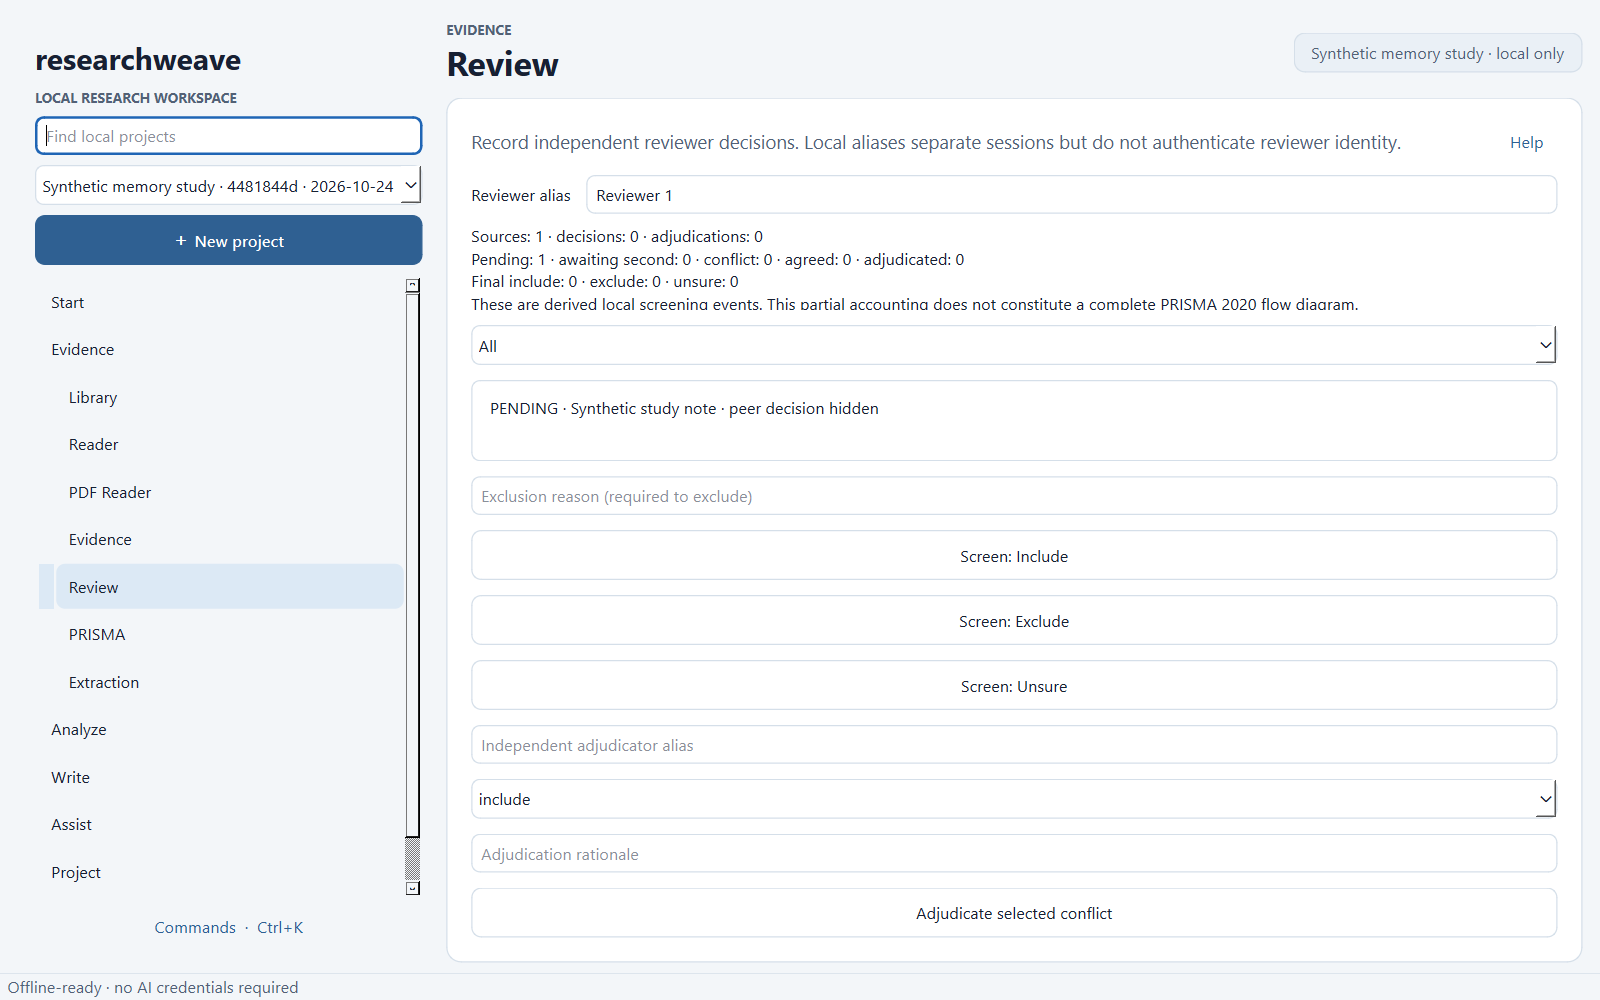
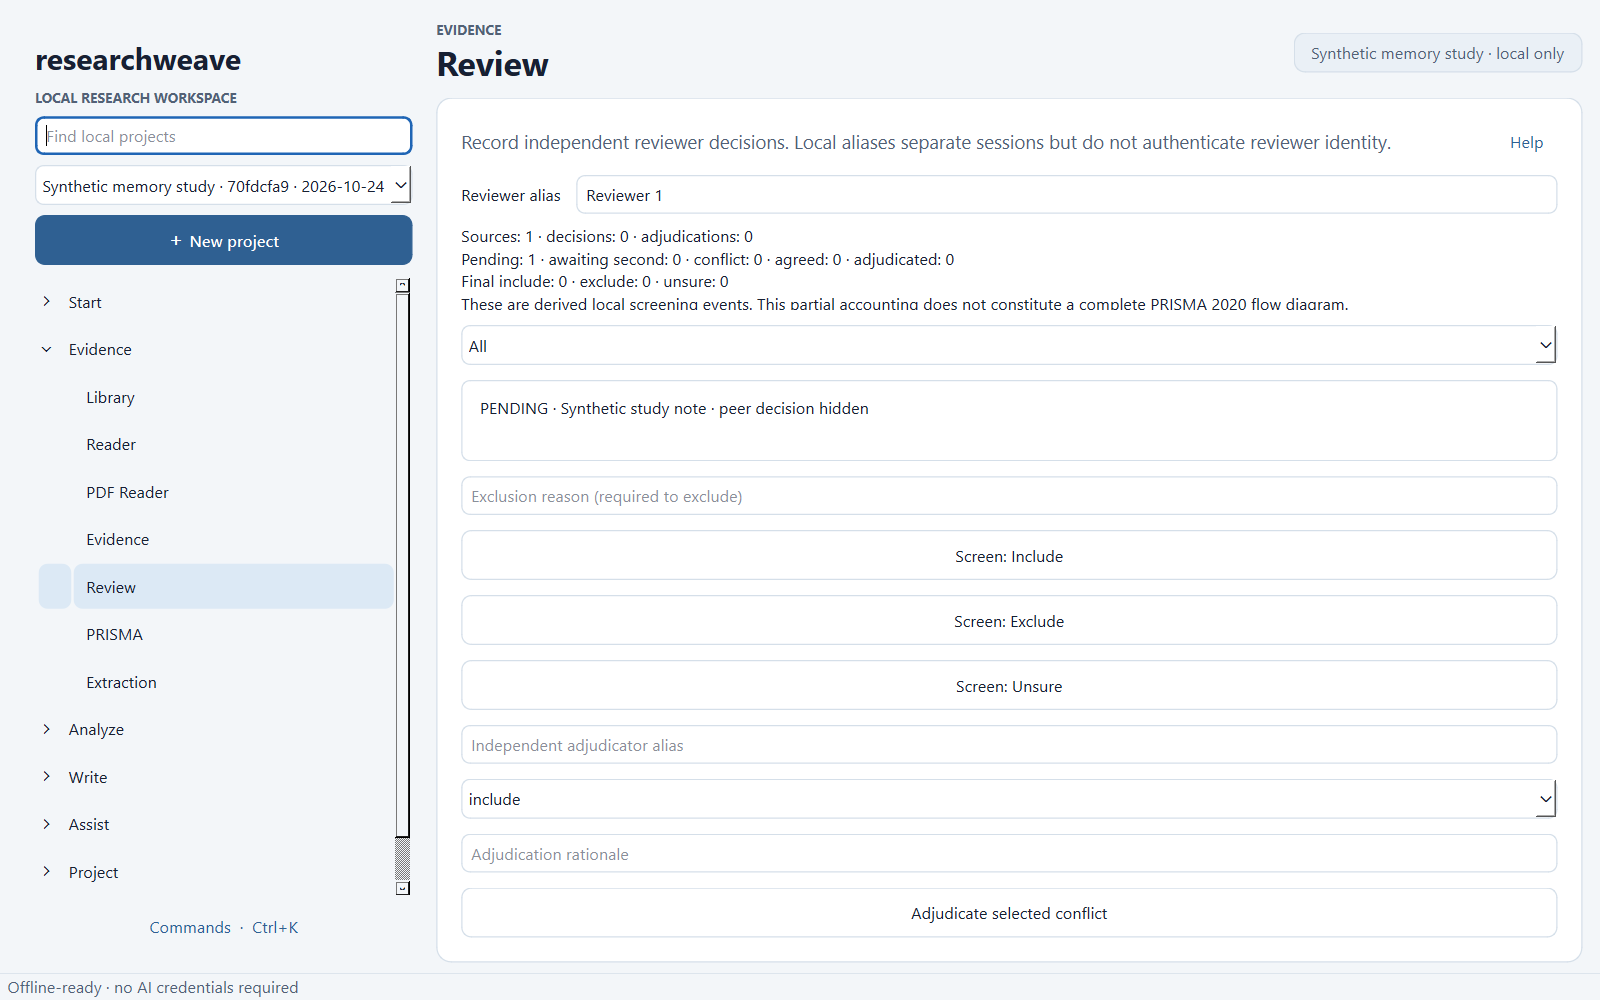
Use native grouped navigation affordances

diff --git a/src/researchweave/ui/shell.py b/src/researchweave/ui/shell.py
@@ -238,7 +238,7 @@ class ResearchWindow(QMainWindow):
         self.nav.setObjectName("workspaceNav")
         self.nav.setHeaderHidden(True)
         self.nav.setIndentation(14)
-        self.nav.setRootIsDecorated(False)
+        self.nav.setRootIsDecorated(True)
         named(
             self.nav,
             "Workspace navigation",
@@ -261,7 +261,6 @@ class ResearchWindow(QMainWindow):
                 else None
             )
         )
-        self.nav.itemClicked.connect(self._toggle_navigation_group)
         side.addWidget(self.nav)
         palette_button = button("Commands  ·  Ctrl+K", self.show_palette)
         palette_button.setObjectName("quiet")
@@ -1515,13 +1514,6 @@ class ResearchWindow(QMainWindow):
         if "revision" in payload:
             self.revision = payload["revision"]
         return cast(dict[str, Any], payload)
-
-    def _toggle_navigation_group(self, item: QTreeWidgetItem, _column: int) -> None:
-        """Make category headings themselves usable expansion targets."""
-        if item.data(0, Qt.ItemDataRole.UserRole):
-            return
-        if item.childCount():
-            item.setExpanded(not item.isExpanded())
 
     def navigate(self, name: str) -> None:
         if name not in SCREENS:
